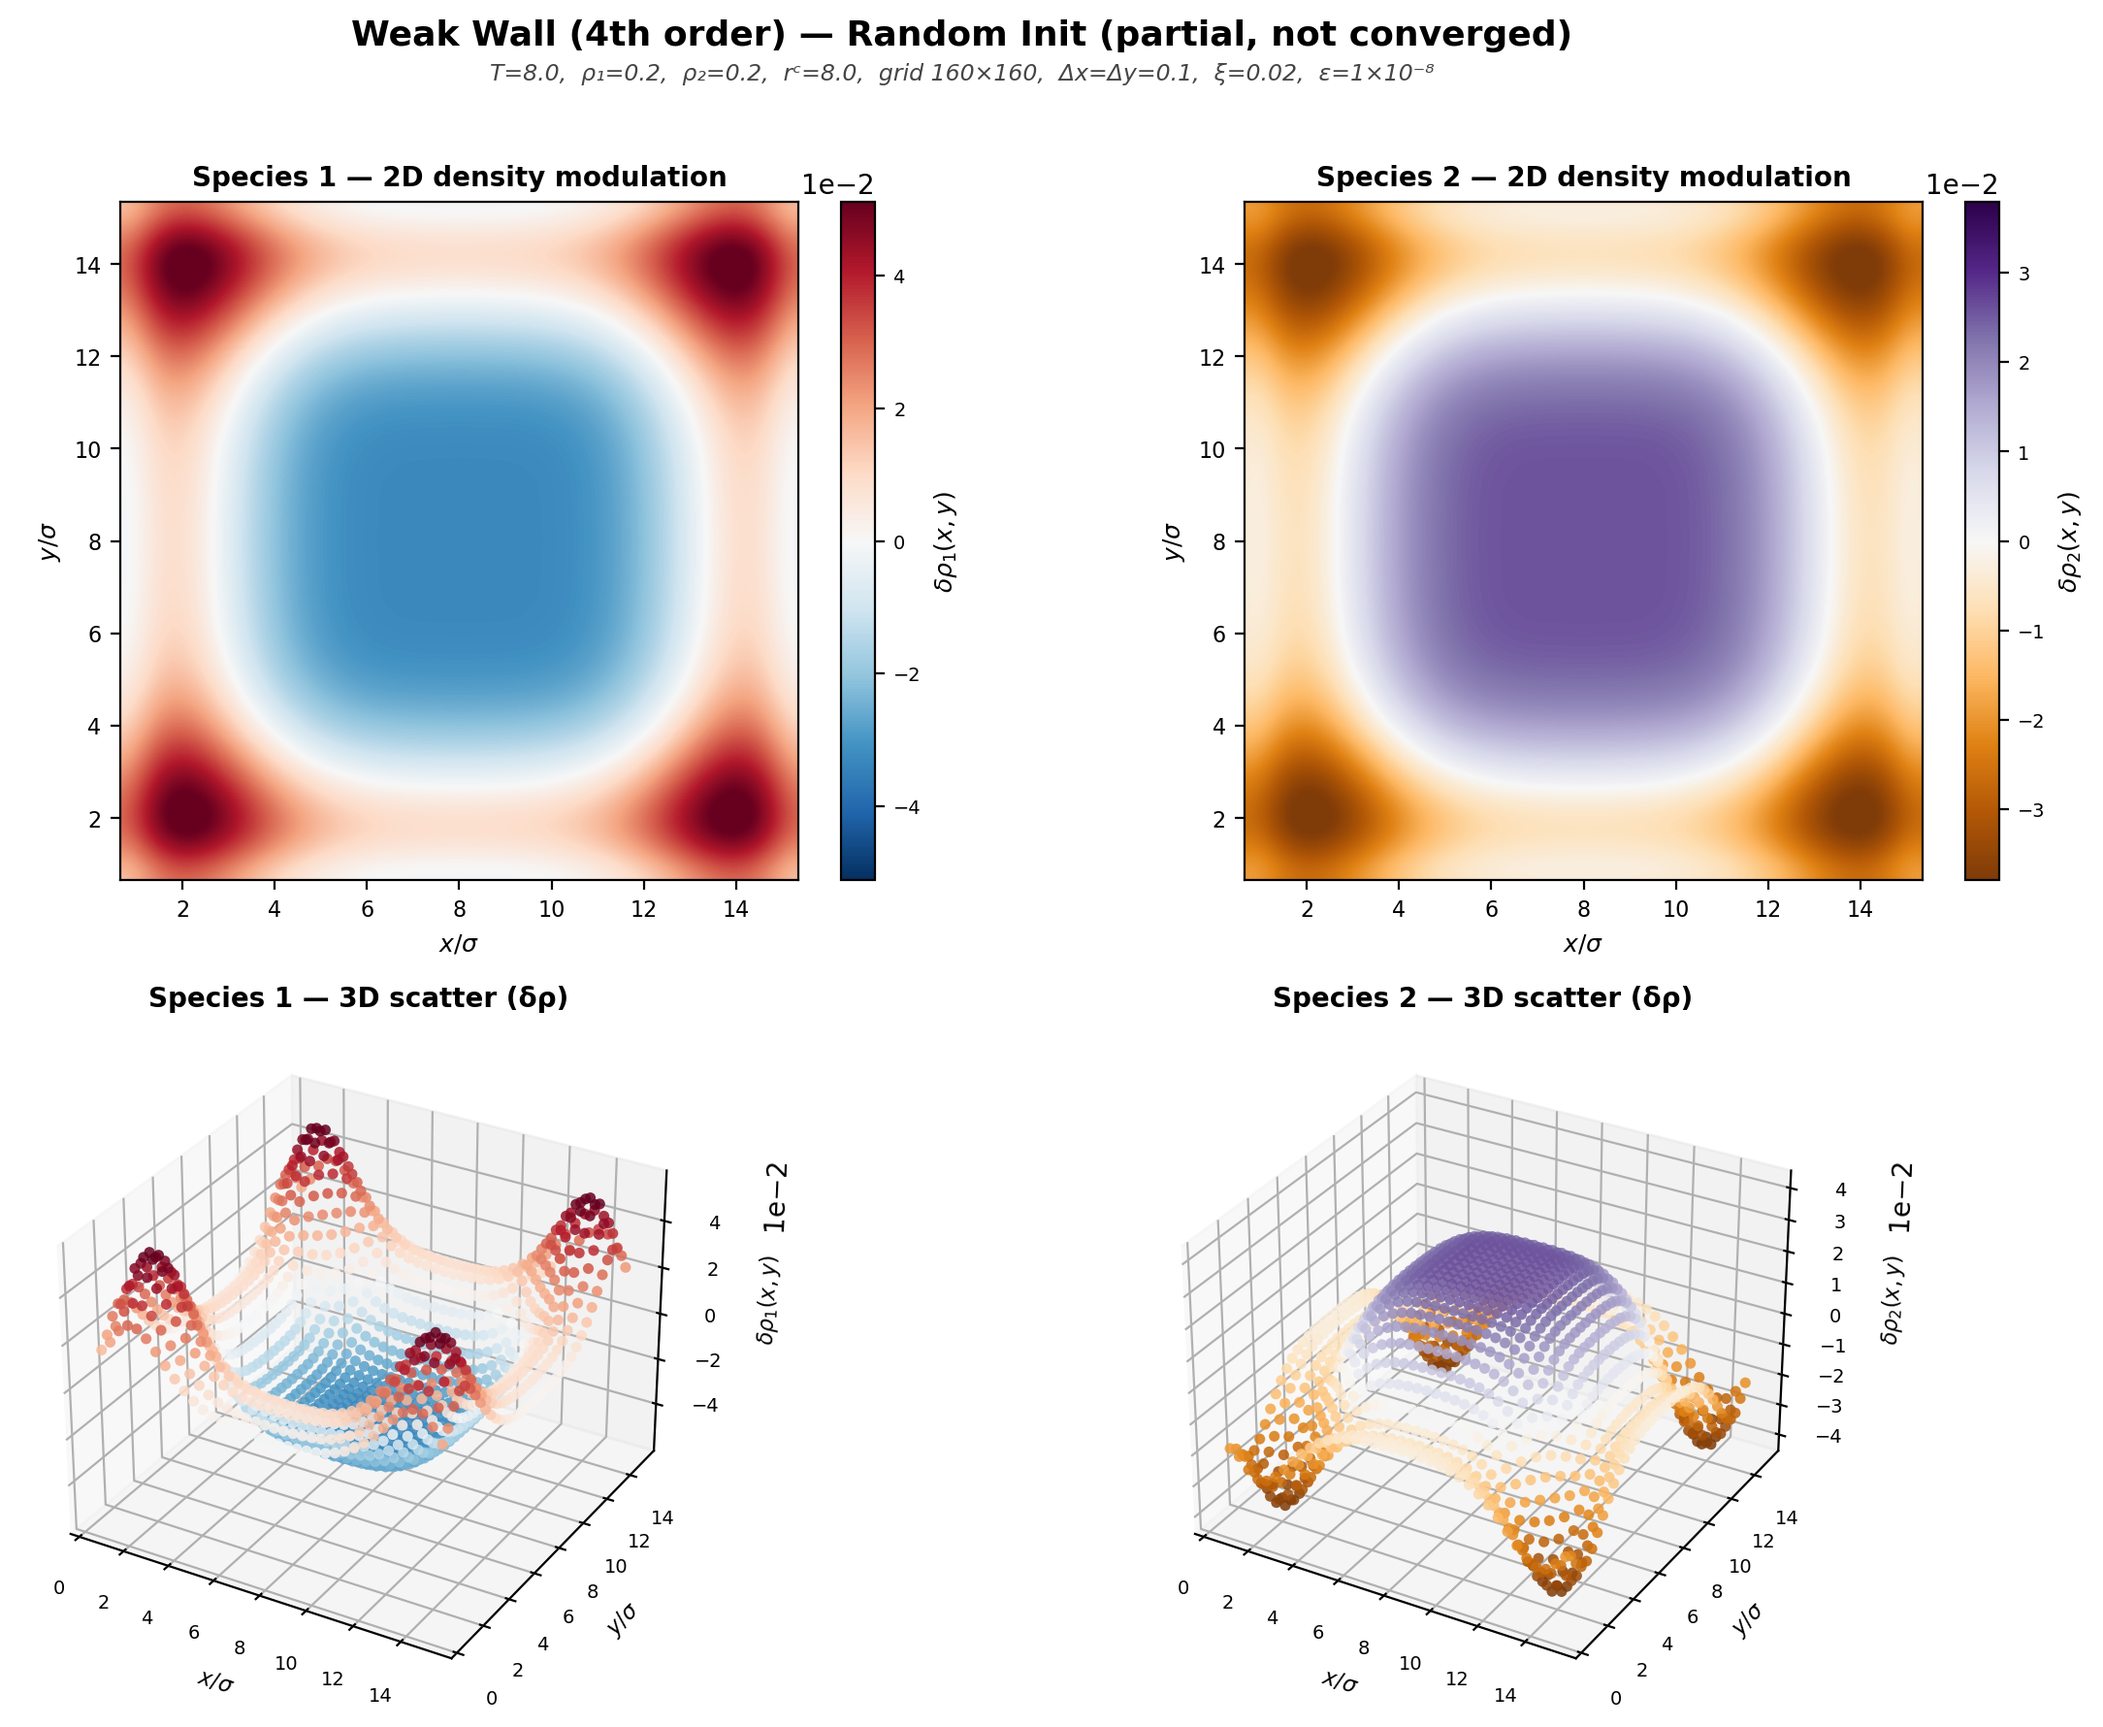
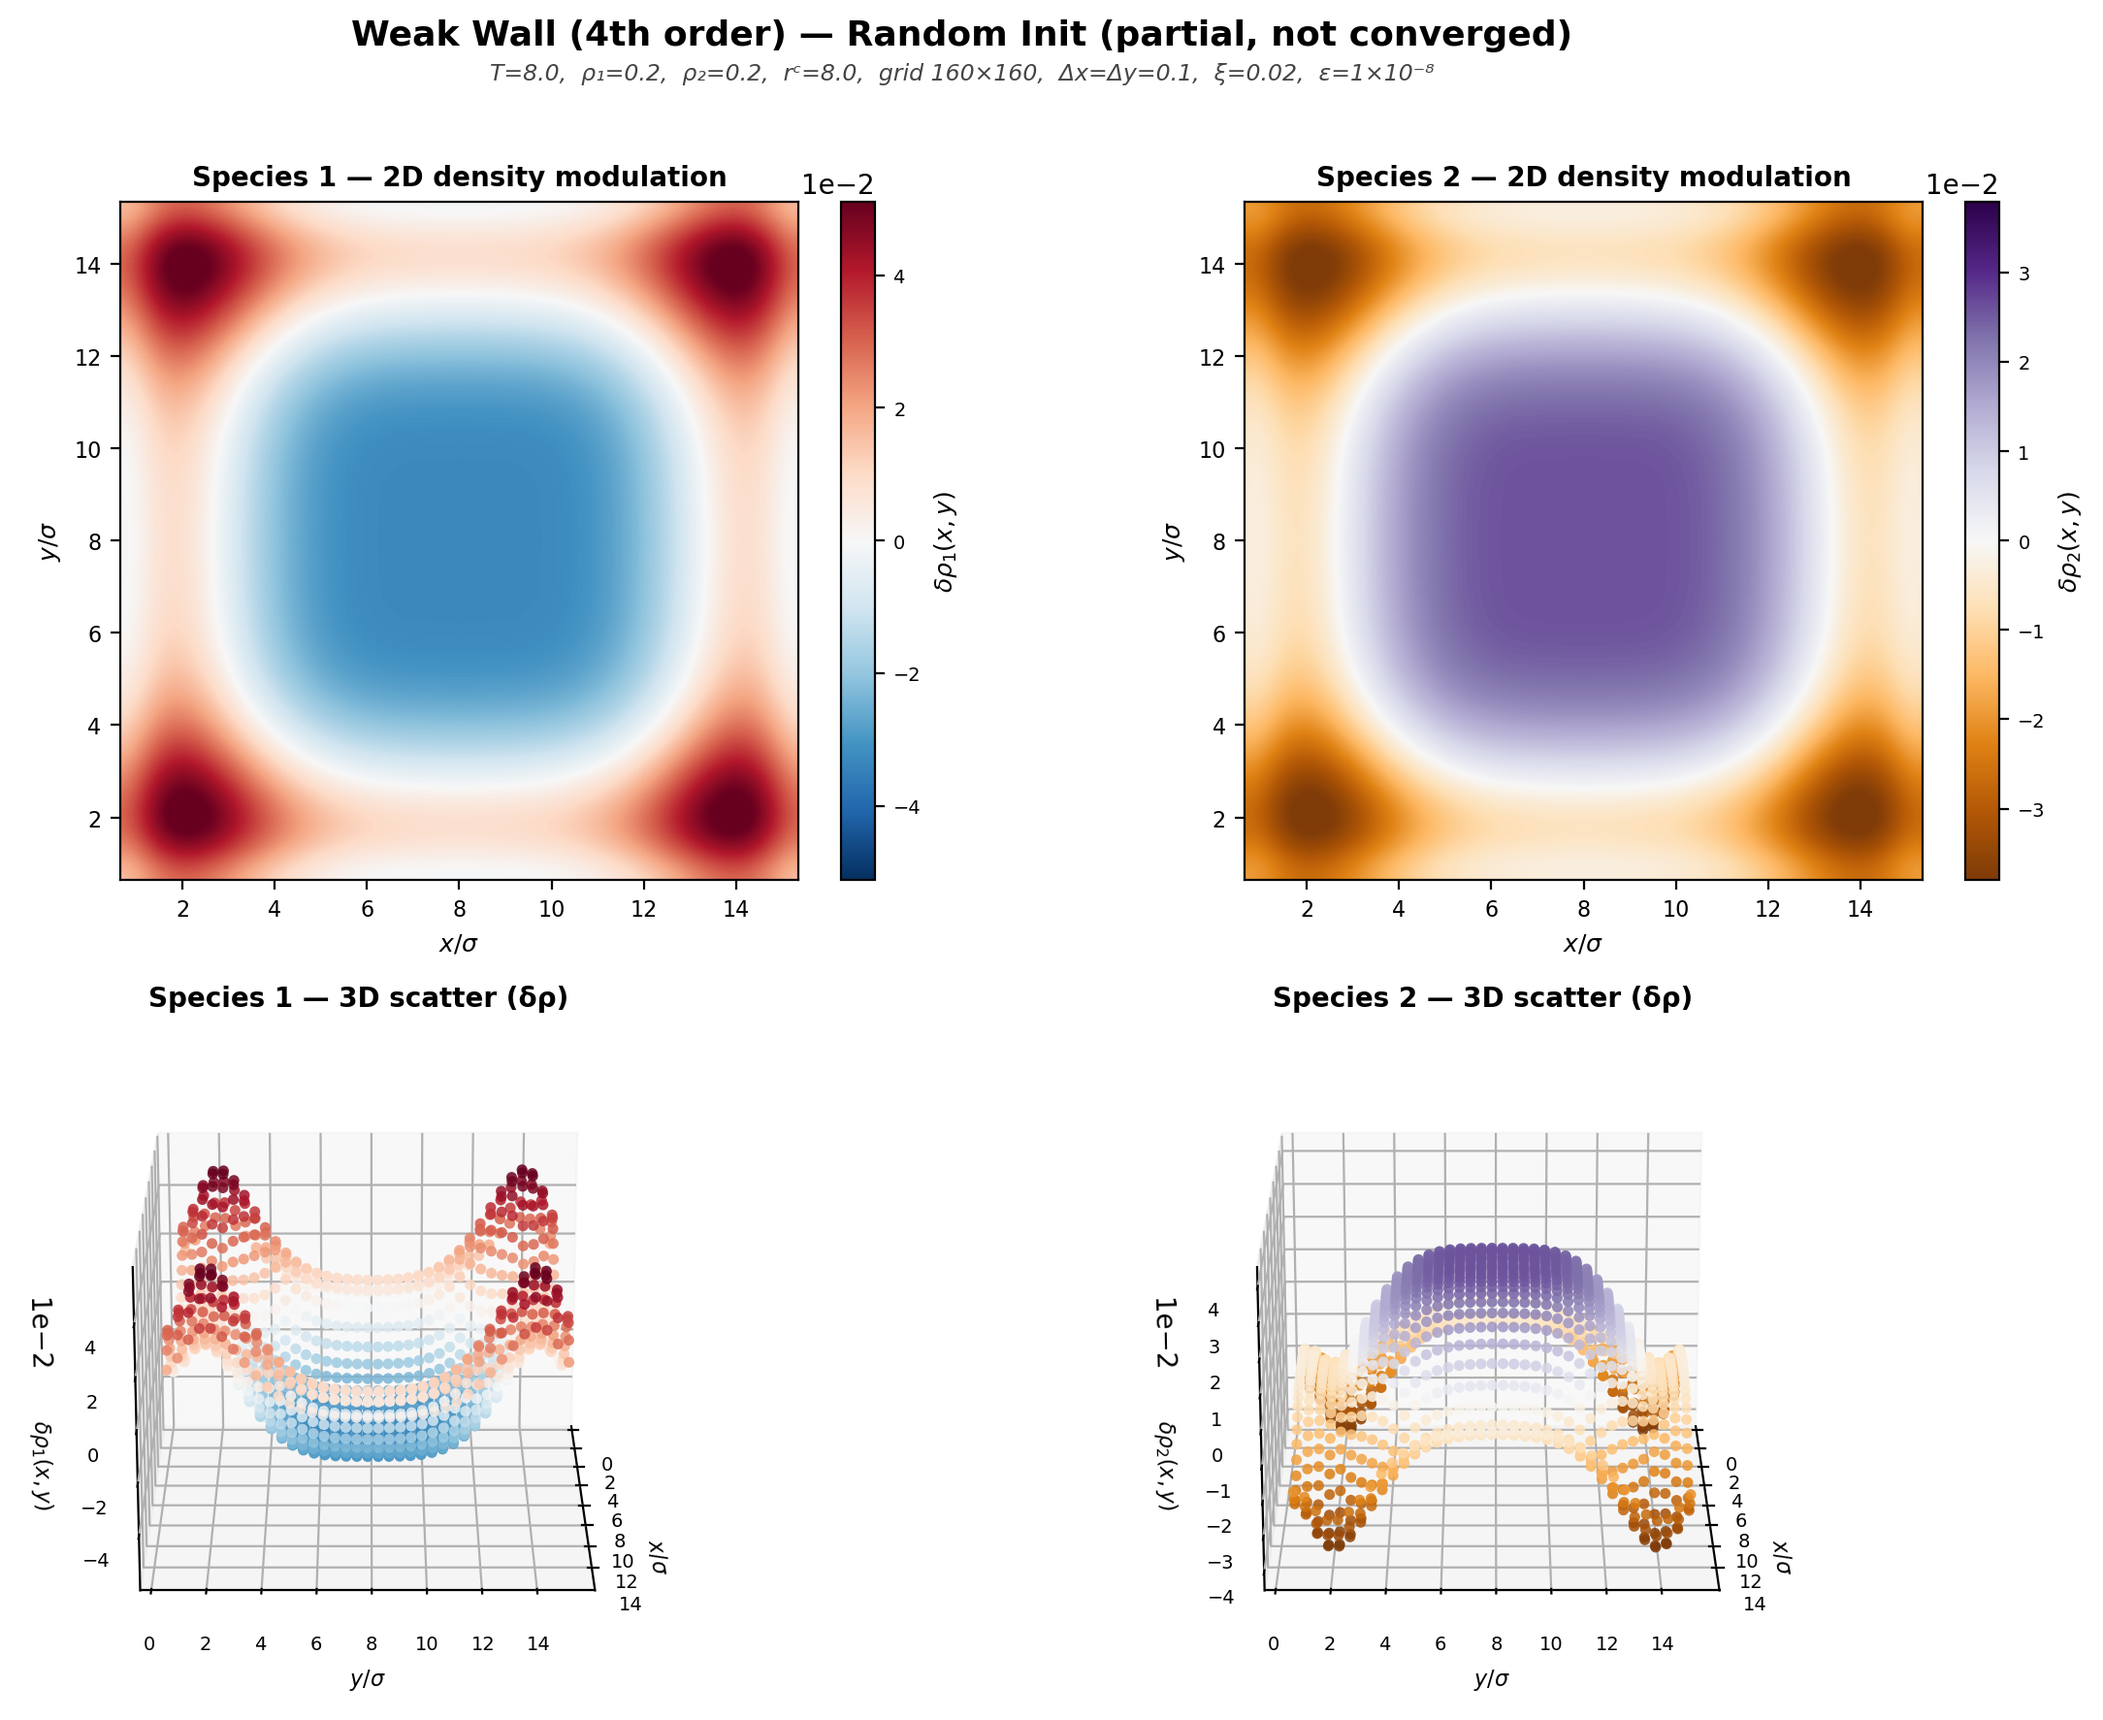
docs: Change view of W4 mode plots

diff --git a/scripts/generate_report_plots.py b/scripts/generate_report_plots.py
@@ -175,6 +175,8 @@ def make_combined_figure(
     cmap1: str = _CMAP1,
     cmap2: str = _CMAP2,
     trim: int = 0,
+    view_elev: int = 30,
+    view_azim: int = -60,
 ):
     """
     Create a 2×2 combined figure:
@@ -215,8 +217,10 @@ def make_combined_figure(
     # -- Row 2: 3D scatter (δρ) --
     ax3 = fig.add_subplot(2, 2, 3, projection="3d")
     ax4 = fig.add_subplot(2, 2, 4, projection="3d")
-    _plot_3d_panel(ax3, xs1, ys1, rho1, cmap1, "Species 1", vmin1, vmax1, trim=trim)
-    _plot_3d_panel(ax4, xs2, ys2, rho2, cmap2, "Species 2", vmin2, vmax2, trim=trim)
+    _plot_3d_panel(ax3, xs1, ys1, rho1, cmap1, "Species 1", vmin1, vmax1,
+                   trim=trim, view_elev=view_elev, view_azim=view_azim)
+    _plot_3d_panel(ax4, xs2, ys2, rho2, cmap2, "Species 2", vmin2, vmax2,
+                   trim=trim, view_elev=view_elev, view_azim=view_azim)
 
     plt.tight_layout(rect=[0, 0, 1, 0.95])
     plt.savefig(dest_path, dpi=dpi, bbox_inches="tight")
@@ -248,6 +252,10 @@ def main():
     parser.add_argument("--cmap2", default=_CMAP2, help="Colormap for species 2 (default: Reds)")
     parser.add_argument("--trim", type=int, default=0,
                         help="Trim N boundary cells from each edge (use for wall BC modes)")
+    parser.add_argument("--view-elev", type=int, default=30, dest="view_elev",
+                        help="3D scatter elevation angle (default: 30)")
+    parser.add_argument("--view-azim", type=int, default=-60, dest="view_azim",
+                        help="3D scatter azimuth angle (default: -60)")
     args = parser.parse_args()
 
     data_dir = os.path.join(args.output_dir, "data")
@@ -271,6 +279,8 @@ def main():
         cmap1=args.cmap1,
         cmap2=args.cmap2,
         trim=args.trim,
+        view_elev=args.view_elev,
+        view_azim=args.view_azim,
     )
 
 
